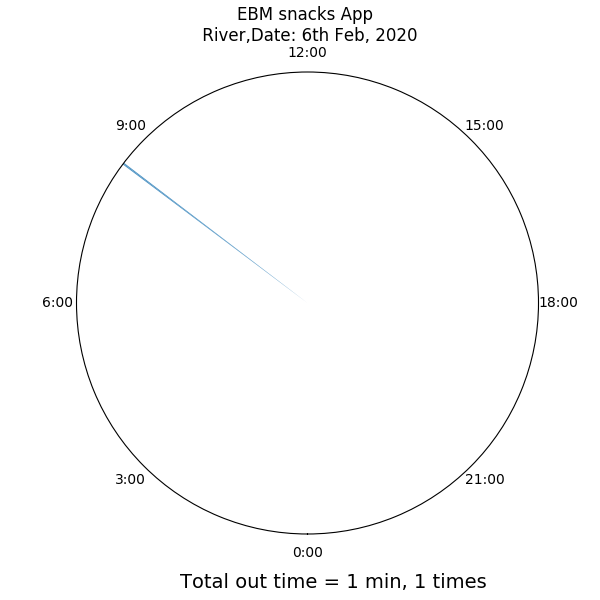
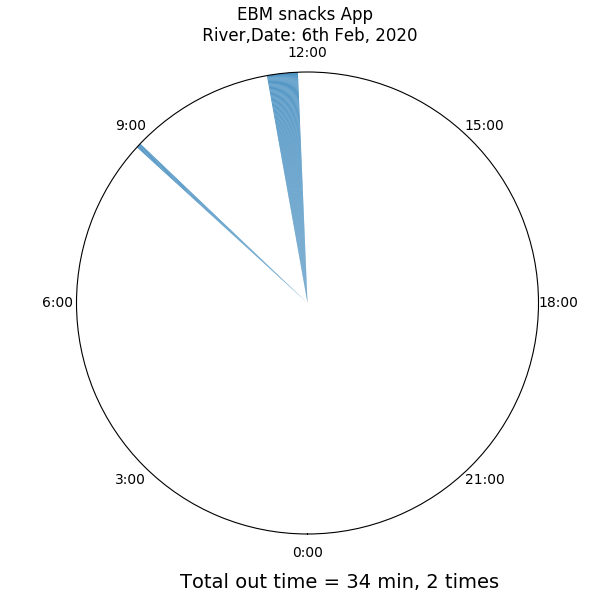
now main program can import the data in required format from another module called csvreader.py and finally plot the outtimes for individual employee. wooohoooo

diff --git a/polarbar.py b/polarbar.py
@@ -1,98 +1,94 @@
 from numpy import *
-import numpy as np
+import numpy as np 
 from matplotlib import pyplot as plt
 import sys
+import csvreader
 
-np.set_printoptions(threshold=sys.maxsize) #print the numpy array without truncation
 
+#print the numpy array without truncation
+np.set_printoptions(threshold=sys.maxsize)
 
+#outtimes = [(508,509),(573,578),(629,633),(714,717),(743,765)]
+#r1 ~ employee name
+#r1 = [(508,509),(573,578),(629,633),(714,717),(743,765)]
+#r2 = [(508,509),(573,578),(629,633)]
+#r3 = [(508,509),(573,578)]
+#r4 = [(508,509)]
+#employee_data = [r1,r2,r3,r4]
+
+employee_data = csvreader.e_data
+print(employee_data)
 
 #1 degree = 4 min, for 24 hour scale
-r=zeros([360*4])
+r = zeros([360*4])
+theta = np.arange(0,2*np.pi,2*np.pi/1440)
+width = np.pi*2/1440
 
-#theta=arange(0,2*pi,2*pi/1440) #works, but lets use numpy
-theta=np.arange(0,2*np.pi,2*np.pi/1440)
-width = pi*2/1440
+#bar_height = zeros([1440])
 
-radiii = zeros([1440])
-
-#create a list of empty strings where the length of the list = 1440
+#create a list of empty strings where the length of the list = total number of bars(i.e = 1440)
 timespan_label=[]
-for i in range(0,1439):
+for i in range(0,1440):
     timespan_label.append('')
 
-
-
-#employees = []
-#r1 = [(508,509),(573,578),(629,633),(714,717),(743,765)]
-#r2 = [(508,509),(573,578),(629,633),(714,717),(743,765)]
-#r3 = [(508,509),(573,578),(629,633),(714,717),(743,765)]
-#r4 = [(508,509),(573,578),(629,633),(714,717),(743,765)]
-
-outtimes = [r1,r2,r3,r4]
-for k in range (0,len(outtimes)):
-    print(k)
-    for j in outtimes[k]:
+def plot(outtimes):
+    
+    total_outtime = 0
+    outtime_durations = []
+    for j in outtimes:
+        delta = j[1] - j[0]
+        total_outtime = total_outtime + delta
+        outtime_durations.append(delta)
         for i in range(j[0],j[1]+1):
-            radiii[i] = j[1]-j[0]
+            bar_height[i] = delta
             
-            total_outtime = 0
-            outtime_durations=[]
-            for x in outtimes[0]:
-                delta = (x[1]-x[0])
-                
-                total_outtime = total_outtime + delta
-
-                
-                outtime_durations.append(delta)
-                
-                timespan_label_number = x[0]+(delta//2)
-                timespan_label[timespan_label_number] = str(delta)
-                #timespan_label.append(str(timespan_label_number))
-
-#print(timespan_label)
-print(outtime_durations)
-            
-fig = plt.figure(figsize=(6,6))
-ax = fig.add_axes([0.1, 0.1, 0.75, 0.79], polar=True)
-ax = plt.subplot(111, projection='polar')
-ax.set_theta_zero_location("S")
-ax.set_theta_direction(-1) #now it is clockwise
-
-ax.grid(False)
-ax.spines['polar'].set_visible(True) #shows the outer circle
-ax.set_yticklabels([])      #removes the y-tick labels( i.e bar heights)
-
-#Arrange the grid into number of sales equal parts in degrees
-time_label = ["0:00", "3:00", "6:00", "9:00", "12:00", "15:00", "18:00", "21:00"]
-lines, labels = plt.thetagrids(range(0, 360, int(360/len(time_label))), (time_label))
-#ax.set_xticks(theta)
-#plt.thetagrids['grid.color'] = "deeppink"
-
-plt.title("EBM snacks App \n River,Date: 6th Feb, 2020")
-
-num_outtimes=len(outtimes)
-textstr="Total out time = {} min, {} times".format(total_outtime,num_outtimes)
-plt.gcf().text(0.3, 0.02, textstr, fontsize=14)
+    fig = plt.figure(figsize=(6,6))
+    ax = fig.add_axes([0.1, 0.1, 0.75, 0.79], polar=True)
+    ax = plt.subplot(111, projection='polar')
+    ax.set_theta_zero_location("S")
+    ax.set_theta_direction(-1) #now it is clockwise
+    ax.grid(False)
+    ax.spines['polar'].set_visible(True) #shows the outer circle
+    ax.set_yticklabels([])      #removes the y-tick labels( i.e bar heights)
+    
+    #arrange the grid like a clock
+    time_label = ["0:00", "3:00", "6:00", "9:00", "12:00", "15:00", "18:00", "21:00"]
+    lines, labels = plt.thetagrids(range(0, 360, int(360/len(time_label))), (time_label))
+    plt.title("EBM snacks App \n River,Date: 6th Feb, 2020")
+    
+    num_outtimes = len(outtimes)
+    textstr = "Total out time = {} min, {} times".format(total_outtime, num_outtimes)
+    plt.gcf().text(0.3, 0.02, textstr, fontsize=14)
+    
+    
+    bars = ax.bar(theta, bar_height, width=width, bottom=0.0, alpha = 0.8) #edgecolor = "k"
+    ax.set_ylim(0, min(outtime_durations))
+    
+    #below block of code is udes to save the full screen figure generated
+    manager = plt.get_current_fig_manager()
+    manager.full_screen_toggle()
+    
+    fig = plt.gcf()  #gcf =get current frame
+    
+    fig.savefig('%s.png' %(name)) #, bbox_inches='tight', dpi=1000
+    #define this name during the plot function call.it will be inherited here.
 
 
-bars = ax.bar(theta, radiii, width=width, bottom=0.0, alpha = 0.8) #edgecolor = "k"
-ax.set_ylim(0, min(outtime_durations))
+    '''
+    for h in range(0,len(employee_data)):
+        print(o)
+        fig.savefig('%s.png' %(h)) #, bbox_inches='tight', dpi=1000
+        #plt.show()
+    '''
 
-#plt.axis('off') #removes the circle and labels
+for data in employee_data:
+    bar_height = zeros([1440])
+    print(data)
+    name = str(len(data)) #this name will be inherited to into the funtion call.
+    plot(data)
+    bar_height = zeros([1440])
 
-#getting labels for each timeout stick at the periphery of the circle.
-#below block of code is udes to save the full screen figure generated
-manager = plt.get_current_fig_manager()
-manager.full_screen_toggle()
 
-fig = plt.gcf()  #gcf =get current frame
-fig.savefig('ebm_snacks.png', dpi=1000) #, bbox_inches='tight'
-plt.show()
 
-'''
-#rotations = np.rad2deg(theta)
-#for x, bar, rotation, label in zip(theta, bars, rotations, timespan_label ):
-   # lab = ax.text(x,min(outtime_durations)+0.05 , label, 
-       #      ha='left', va='center', rotation=rotation, rotation_mode="anchor")
-'''
+
+        

diff --git a/csvreader.py b/csvreader.py
@@ -1,9 +1,56 @@
+
 import csv
-with open('snacks1.csv',mode='r') as csv_file:
-    csv_reader = csv.DictReader(csv_file)
-    line_count = 0
-    for row in csv_reader:
-        if line_count == 0:
-            print(f'column names are {", ".join(row)}')
-            break
-    print(f'Processed {line_count} lines.')
+
+file_name = "snacks1.csv"
+try:
+    #csvfile = open(file_name, 'rt')
+    csvfile = open(file_name, newline='')
+except:
+    print("File not found")
+csvReader = csv.reader(csvfile, delimiter=",")
+l =  list()
+#print(l)
+
+e_data = []
+for row in csvReader:
+    
+    #print("row is : ", row)
+    dt=[]
+    new_outtime = None
+    for i in range(0,len(row)):
+      if i % 2 == 1:
+        new_outtime = (int(row[i]),int(row[i+1]))
+        #print(new_outtime)
+        dt.append(new_outtime)
+        #print(dt) 
+        
+      else:
+        pass
+    if dt != []:
+        e_data.append(dt)
+
+#print(e_data)
+
+
+
+
+
+
+    #l.append(tuple(row))
+    #l.append((row[0], row[1], row[2], row[3]))
+#print(l)
+
+
+
+'''
+import csv
+from pprint import pprint
+
+with open('snacks1.csv', newline='') as file:
+    reader = csv.reader(file)
+    res = list(map(tuple, reader))
+
+pprint(res)
+'''
+
+        

diff --git a/test.py b/test.py
@@ -1,0 +1,12 @@
+outtime = []
+row= ['r1','525','529','670','700','915','930']
+for i in range(0,len(row)):
+    if i == 0:
+        pass
+    elif i % 2 == 1:
+        new_outtime = (int(row[i]),int(row[i+1]))
+        outtime.append(new_outtime)
+    else:
+        pass
+print(outtime)
+
